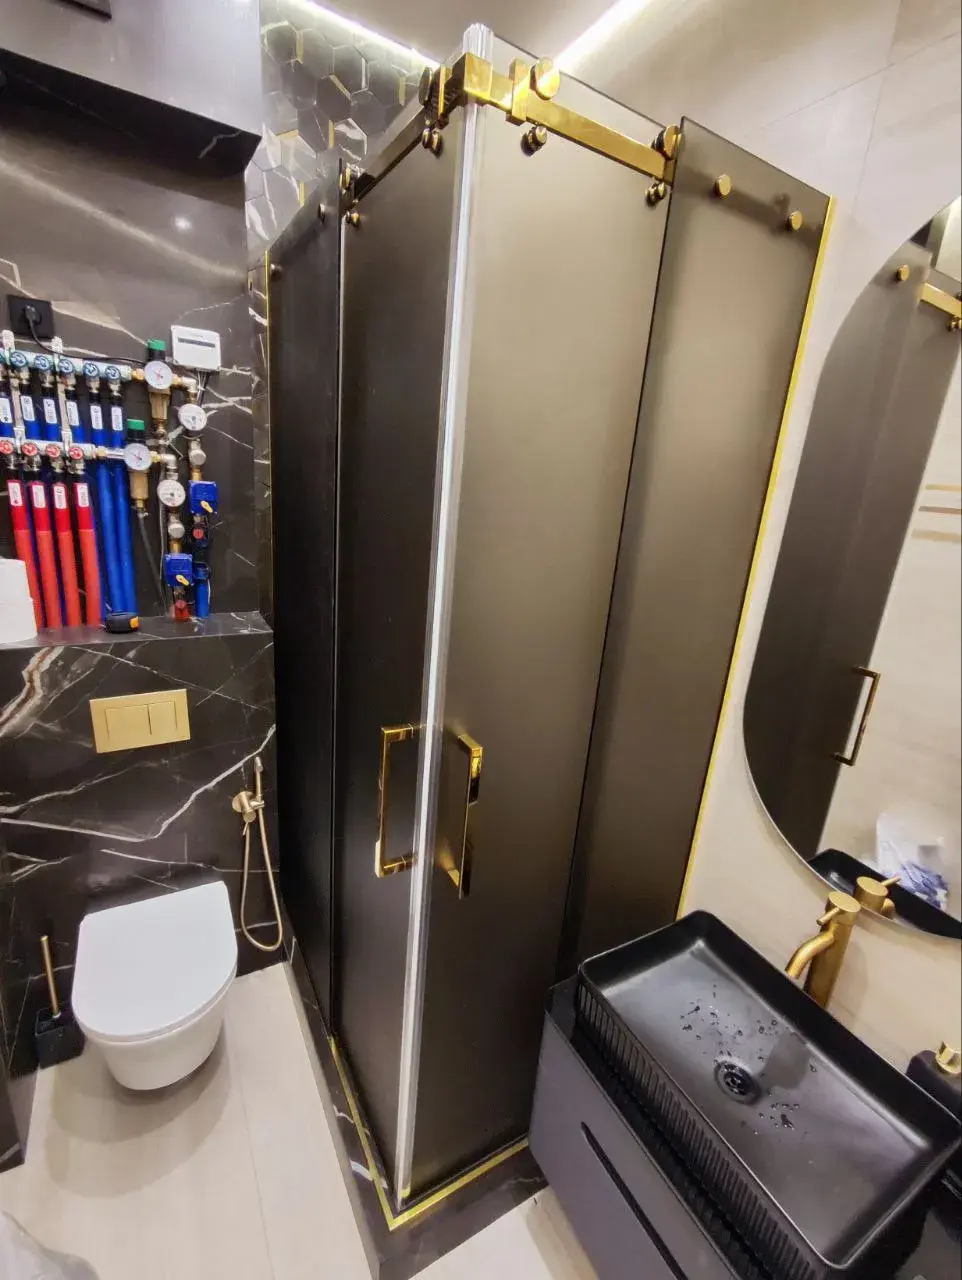
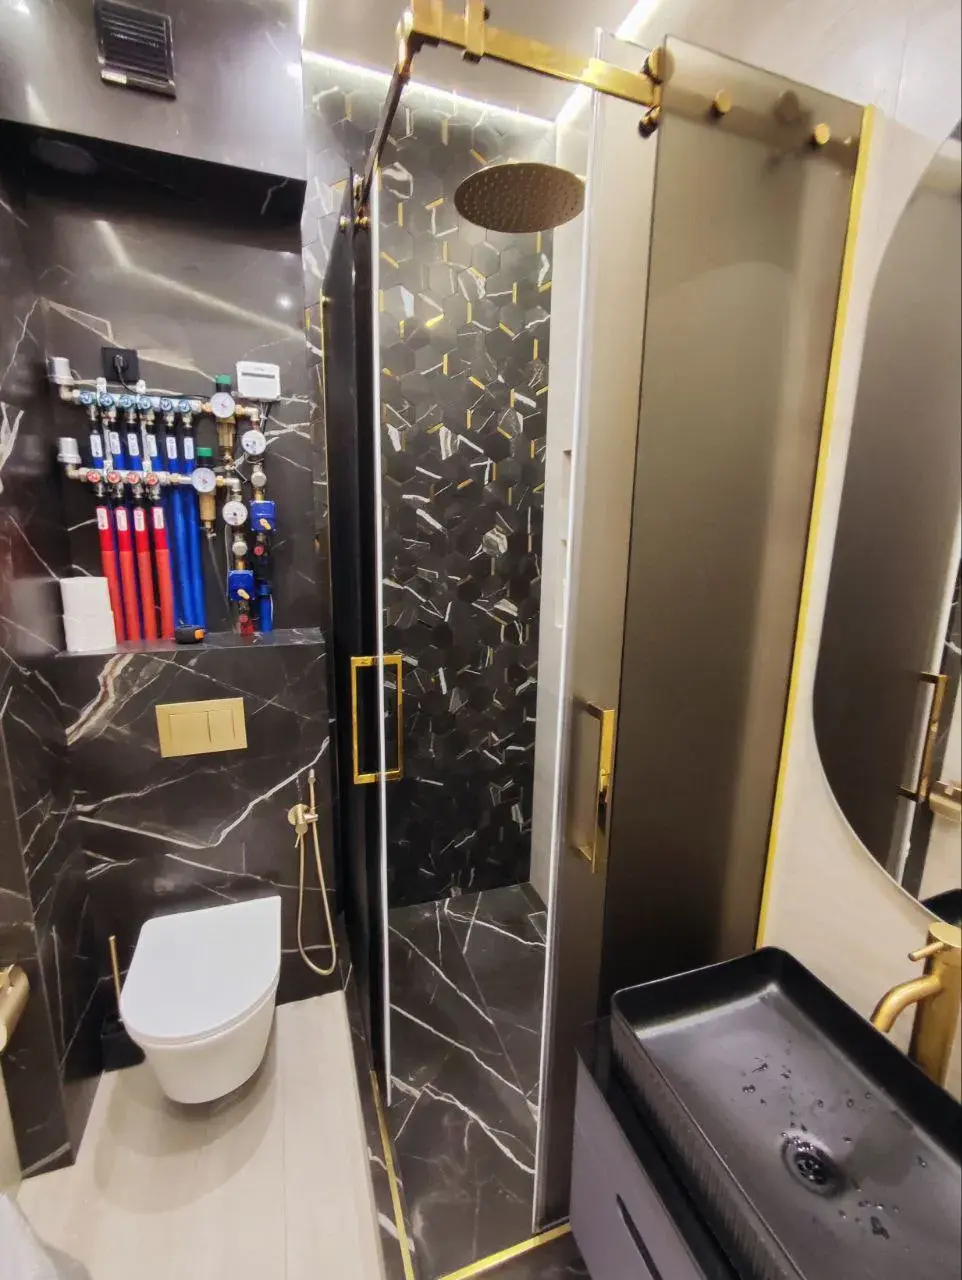
feat: added actual images for the portfolio. (Sat, Mar 29, 2025, 12:21:25 PM)

diff --git a/src/data/portfolioPage/portfolioData.js b/src/data/portfolioPage/portfolioData.js
@@ -1,127 +1,287 @@
 import portfolioPageImg_1_1 from "../../assets/portfolioPage/1-1.webp"
 import portfolioPageImg_1_2 from "../../assets/portfolioPage/1-2.webp"
 import portfolioPageImg_1_3 from "../../assets/portfolioPage/1-3.webp"
-import portfolioPageImg_1_4 from "../../assets/portfolioPage/1-4.webp"
 import portfolioPageImg_2_1 from "../../assets/portfolioPage/2-1.webp"
 import portfolioPageImg_2_2 from "../../assets/portfolioPage/2-2.webp"
-import portfolioPageImg_2_3 from "../../assets/portfolioPage/2-3.webp"
+import portfolioPageImg_3_1 from "../../assets/portfolioPage/3-1.webp"
+import portfolioPageImg_3_2 from "../../assets/portfolioPage/3-2.webp"
+import portfolioPageImg_3_3 from "../../assets/portfolioPage/3-3.webp"
+import portfolioPageImg_4_1 from "../../assets/portfolioPage/4-1.webp"
+import portfolioPageImg_4_2 from "../../assets/portfolioPage/4-2.webp"
+import portfolioPageImg_4_3 from "../../assets/portfolioPage/4-2.webp"
+import portfolioPageImg_5_1 from "../../assets/portfolioPage/5-1.webp"
+import portfolioPageImg_5_2 from "../../assets/portfolioPage/5-2.webp"
+import portfolioPageImg_6_1 from "../../assets/portfolioPage/6-1.webp"
+import portfolioPageImg_6_2 from "../../assets/portfolioPage/6-2.webp"
+import portfolioPageImg_6_3 from "../../assets/portfolioPage/6-3.webp"
+import portfolioPageImg_7_1 from "../../assets/portfolioPage/7-1.webp"
+import portfolioPageImg_8_1 from "../../assets/portfolioPage/8-1.webp"
+import portfolioPageImg_9_1 from "../../assets/portfolioPage/9-1.webp"
+import portfolioPageImg_9_2 from "../../assets/portfolioPage/9-2.webp"
+import portfolioPageImg_10_1 from "../../assets/portfolioPage/10-1.webp"
+import portfolioPageImg_11_1 from "../../assets/portfolioPage/11-1.webp"
+import portfolioPageImg_12_1 from "../../assets/portfolioPage/12-1.webp"
+import portfolioPageImg_13_1 from "../../assets/portfolioPage/13-1.webp"
+import portfolioPageImg_13_2 from "../../assets/portfolioPage/13-2.webp"
+import portfolioPageImg_14_1 from "../../assets/portfolioPage/14-1.webp"
+import portfolioPageImg_15_1 from "../../assets/portfolioPage/15-1.webp"
+import portfolioPageImg_16_1 from "../../assets/portfolioPage/16-1.webp"
+import portfolioPageImg_17_1 from "../../assets/portfolioPage/17-1.webp"
 
 const portfolioPageData = [
 	{
 		mainId: "portfolioPage_main_id_0",
 		carouselId: "portfolioPage_carousel_id_",
 		descriptionId: "portfolioPage_description_id_",
-		title: "Угловая душевая перегородка",
-		images: [
-			portfolioPageImg_1_1,
-			portfolioPageImg_1_2,
-			portfolioPageImg_1_3,
-			portfolioPageImg_1_4,
-		],
+		title: "Душевая угловая перегородка",
+		images: [portfolioPageImg_1_1, portfolioPageImg_1_2, portfolioPageImg_1_3],
 		descriptions: [
-			"Форма: Угловая душевая перегородка",
-			"Вид стекла: Стекло закаленное бронза сатин",
-			"Цвет фурнитуры: Золото",
-			"Тип открывания дверей: Откатная",
-			"Стоимость \u2248 1400р",
+			"Форма: Душевая угловая перегородка",
+			"Фурнитура: Золото глянец",
+			"Стекло: Бронза матовое , закаленное, 8мм",
+			"Тип открывания дверей: Раздвижной",
+			"Стоимость под ключ: 2633р",
+			"Размеры: 2100*1195*736",
 		],
 	},
 	{
 		mainId: "portfolioPage_main_id_1",
 		carouselId: "portfolioPage_carousel_id_1",
 		descriptionId: "portfolioPage_description_id_1",
-		title: "Распашная душевая перегородка",
-		images: [portfolioPageImg_2_1, portfolioPageImg_2_2, portfolioPageImg_2_3],
+		title: "Дущевая перегородка в нишу",
+		images: [portfolioPageImg_2_1, portfolioPageImg_2_2],
 		descriptions: [
-			"Форма: Распашная душевая перегородка",
-			"Вид стекла: Стекло закаленное  сатин",
-			"Цвет фурнитуры: Бронза",
-			"Тип открывания дверей: Распашная",
-			"Стоимость \u2248 1700р",
+			"Форма: Дущевая перегородка в нишу",
+			"Фурнитура: Черный мат.",
+			"Стекло: Прозрачное+матир., закаленное, 8мм",
+			"Тип открывания дверей: Распашной",
+			"Стоимость: 2033р",
+			"Размеры: 2000*1045",
 		],
 	},
 	{
 		mainId: "portfolioPage_main_id_2",
-		title: "Угловая душевая перегородка",
+		title: "Душевая угловая перегородка",
 		carouselId: "portfolioPage_carousel_id_2",
 		descriptionId: "portfolioPage_description_id_2",
-		images: [portfolioPageImg_2_1, portfolioPageImg_2_2, portfolioPageImg_2_3],
+		images: [portfolioPageImg_3_1, portfolioPageImg_3_2, portfolioPageImg_3_3],
 		descriptions: [
-			"Форма: Распашная душевая перегородка",
-			"Вид стекла: Стекло закаленное  сатин",
-			"Цвет фурнитуры: Бронза",
-			"Тип открывания дверей: Распашная",
-			"Стоимость \u2248 1700р",
+			"Форма: Душевая угловая перегородка",
+			"Фурнитура: Черный мат.",
+			"Стекло: Осветлен. матовое , закаленное, 8мм",
+			"Тип открывания дверей: Раздвижной",
+			"Стоимость: 4432р",
+			"Размеры: 2100*1000*1000",
 		],
 	},
 	{
 		mainId: "portfolioPage_main_id_3",
 		carouselId: "portfolioPage_carousel_id_3",
 		descriptionId: "portfolioPage_description_id_3",
-		title: "Угловая душевая перегородка",
-		images: [portfolioPageImg_2_1, portfolioPageImg_2_2, portfolioPageImg_2_3],
+		title: "Дущевая перегородка в нишу",
+		images: [portfolioPageImg_4_1, portfolioPageImg_4_2, portfolioPageImg_4_3],
 		descriptions: [
-			"Форма: Распашная душевая перегородка",
-			"Вид стекла: Стекло закаленное  сатин",
-			"Цвет фурнитуры: Бронза",
-			"Тип открывания дверей: Распашная",
-			"Стоимость \u2248 1700р",
+			"Форма: Дущевая перегородка в нишу",
+			"Фурнитура: Черный мат.",
+			"Стекло: Осветлен. матовое., закаленное, 8мм",
+			"Тип открывания дверей: Раздвижной",
+			"Стоимость: 3809р",
+			"Размеры: 2300*2300",
 		],
 	},
 	{
 		mainId: "portfolioPage_main_id_4",
 		carouselId: "portfolioPage_carousel_id_4",
 		descriptionId: "portfolioPage_description_id_4",
-		title: "Угловая душевая перегородка",
-		images: [portfolioPageImg_2_1, portfolioPageImg_2_2, portfolioPageImg_2_3],
+		title: "Дущевая перегородка в нишу",
+		images: [portfolioPageImg_5_1, portfolioPageImg_5_2],
 		descriptions: [
-			"Форма: Распашная душевая перегородка",
-			"Вид стекла: Стекло закаленное  сатин",
-			"Цвет фурнитуры: Бронза",
-			"Тип открывания дверей: Распашная",
-			"Стоимость \u2248 1700р",
+			"Форма: Дущевая перегородка в нишу",
+			"Фурнитура: Хром мат.",
+			"Стекло: Матовое закаленное, 8мм",
+			"Тип открывания дверей: Распашной",
+			"Стоимость: 1970р",
+			"Размеры: 2100*1162",
 		],
 	},
 	{
 		mainId: "portfolioPage_main_id_5",
 		carouselId: "portfolioPage_carousel_id_5",
 		descriptionId: "portfolioPage_description_id_5",
-		title: "Угловая душевая перегородка",
-		images: [portfolioPageImg_2_1, portfolioPageImg_2_2, portfolioPageImg_2_3],
+		title: "Статичная перегородка в ванную",
+		images: [portfolioPageImg_6_1, portfolioPageImg_6_2, portfolioPageImg_6_3],
 		descriptions: [
-			"Форма: Распашная душевая перегородка",
-			"Вид стекла: Стекло закаленное  сатин",
-			"Цвет фурнитуры: Бронза",
-			"Тип открывания дверей: Распашная",
-			"Стоимость \u2248 1700р",
+			"Форма: Статичная перегородка в ванную",
+			"Фурнитура: Черный мат.",
+			"Стекло: Рифленое триплекс, закаленное, 8мм",
+			"Тип открывания дверей: -",
+			"Стоимость: 4432р",
+			"Размеры: 1871*785",
 		],
 	},
 	{
 		mainId: "portfolioPage_main_id_6",
 		carouselId: "portfolioPage_carousel_id_6",
 		descriptionId: "portfolioPage_description_id_6",
-		title: "Угловая душевая перегородка",
-		images: [portfolioPageImg_2_1, portfolioPageImg_2_2, portfolioPageImg_2_3],
+		title: "Душевая перегородка в нишу",
+		images: [portfolioPageImg_7_1],
 		descriptions: [
-			"Форма: Распашная душевая перегородка",
-			"Вид стекла: Стекло закаленное  сатин",
-			"Цвет фурнитуры: Бронза",
-			"Тип открывания дверей: Распашная",
-			"Стоимость \u2248 1700р",
+			"Форма: Душевая перегородка в нишу",
+			"Фурнитура: Черный мат.",
+			"Стекло: Тонированное закаленное, 8мм",
+			"Тип открывания дверей: Распашной",
+			"Стоимость: 2637р",
+			"Размеры: 2100*1100",
 		],
 	},
 	{
 		mainId: "portfolioPage_main_id_7",
 		carouselId: "portfolioPage_carousel_id_7",
 		descriptionId: "portfolioPage_description_id_7",
-		title: "Угловая душевая перегородка",
-		images: [portfolioPageImg_2_1, portfolioPageImg_2_2, portfolioPageImg_2_3],
+		title: "Душевая перегородка в нишу",
+		images: [portfolioPageImg_8_1],
 		descriptions: [
-			"Форма: Распашная душевая перегородка",
-			"Вид стекла: Стекло закаленное  сатин",
-			"Цвет фурнитуры: Бронза",
-			"Тип открывания дверей: Распашная",
-			"Стоимость \u2248 1700р",
+			"Форма: Душевая перегородка в нишу",
+			"Фурнитура: Черный мат.",
+			"Стекло: Прозрачное закаленное, 8мм",
+			"Тип открывания дверей: Распашной",
+			"Стоимость: 2124р",
+			"Размеры: 2100*1100",
+		],
+	},
+	{
+		mainId: "portfolioPage_main_id_8",
+		carouselId: "portfolioPage_carousel_id_8",
+		descriptionId: "portfolioPage_description_id_8",
+		title: "Душевая угловая перегородка",
+		images: [portfolioPageImg_9_1, portfolioPageImg_9_2],
+		descriptions: [
+			"Форма: Душевая угловая перегородка",
+			"Фурнитура: Черный мат.",
+			"Стекло: Прозрачное закаленное, 8мм",
+			"Тип открывания дверей: Распашной",
+			"Стоимость: 3993р",
+			"Размеры: 2200*903*900",
+		],
+	},
+	{
+		mainId: "portfolioPage_main_id_9",
+		carouselId: "portfolioPage_carousel_id_9",
+		descriptionId: "portfolioPage_description_id_9",
+		title: "Душевая угловая перегородка",
+		images: [portfolioPageImg_10_1],
+		descriptions: [
+			"Форма: Душевая угловая перегородка",
+			"Фурнитура: Черный мат.",
+			"Стекло: Прозрачное закаленное, 8мм",
+			"Тип открывания дверей: Распашной",
+			"Стоимость: 3846р",
+			"Размеры: 2000*613*1066",
+		],
+	},
+	{
+		mainId: "portfolioPage_main_id_10",
+		carouselId: "portfolioPage_carousel_id_10",
+		descriptionId: "portfolioPage_description_id_10",
+		title: "Душевая перегородка в нишу",
+		images: [portfolioPageImg_11_1],
+		descriptions: [
+			"Форма: Душевая перегородка в нишу",
+			"Фурнитура: Золото  глянец",
+			"Стекло: Прозрачное закаленное, 8мм",
+			"Тип открывания дверей: Распашной",
+			"Стоимость: 2491р",
+			"Размеры: 2100*1502",
+		],
+	},
+	{
+		mainId: "portfolioPage_main_id_11",
+		carouselId: "portfolioPage_carousel_id_11",
+		descriptionId: "portfolioPage_description_id_11",
+		title: "Душевая перегородка в нишу",
+		images: [portfolioPageImg_12_1],
+		descriptions: [
+			"Форма: Душевая перегородка в нишу",
+			"Фурнитура: Черный  мат",
+			"Стекло: Прозрачное тонир. закаленное, 8мм",
+			"Тип открывания дверей: Распашной",
+			"Стоимость: 2674р",
+			"Размеры: 2100*1200",
+		],
+	},
+	{
+		mainId: "portfolioPage_main_id_12",
+		carouselId: "portfolioPage_carousel_id_12",
+		descriptionId: "portfolioPage_description_id_12",
+		title: "Душевая перегородка в нишу",
+		images: [portfolioPageImg_13_1, portfolioPageImg_13_2],
+		descriptions: [
+			"Форма: Душевая перегородка в нишу",
+			"Фурнитура: Черный  мат",
+			"Стекло: Прозрачное закаленное, 8мм",
+			"Тип открывания дверей: Распашной",
+			"Стоимость: 1531р",
+			"Размеры: 2120*599",
+		],
+	},
+	{
+		mainId: "portfolioPage_main_id_13",
+		carouselId: "portfolioPage_carousel_id_13",
+		descriptionId: "portfolioPage_description_id_13",
+		title: "Душевая перегородка в нишу",
+		images: [portfolioPageImg_14_1],
+		descriptions: [
+			"Форма: Душевая перегородка в нишу",
+			"Фурнитура: Хром мат.",
+			"Стекло: Матовое закаленное, 8мм",
+			"Тип открывания дверей: Распашной",
+			"Стоимость: 1970р",
+			"Размеры: 2100*1162",
+		],
+	},
+	{
+		mainId: "portfolioPage_main_id_14",
+		carouselId: "portfolioPage_carousel_id_14",
+		descriptionId: "portfolioPage_description_id_14",
+		title: "Душевая перегородка в нишу",
+		images: [portfolioPageImg_15_1],
+		descriptions: [
+			"Форма: Душевая перегородка в нишу",
+			"Фурнитура: Черный мат.",
+			"Стекло: Прозрачное закаленное, 8мм",
+			"Тип открывания дверей: Раздвижной",
+			"Стоимость: 2190р",
+			"Размеры: 2100*1499",
+		],
+	},
+	{
+		mainId: "portfolioPage_main_id_15",
+		carouselId: "portfolioPage_carousel_id_15",
+		descriptionId: "portfolioPage_description_id_15",
+		title: "Душевая перегородка в нишу",
+		images: [portfolioPageImg_16_1],
+		descriptions: [
+			"Форма: Душевая перегородка в нишу",
+			"Фурнитура: Черный мат.",
+			"Стекло: Прозрачное закаленное, 8мм",
+			"Тип открывания дверей: Раздвижной",
+			"Стоимость: 1871р",
+			"Размеры: 2000*1330",
+		],
+	},
+	{
+		mainId: "portfolioPage_main_id_16",
+		carouselId: "portfolioPage_carousel_id_16",
+		descriptionId: "portfolioPage_description_id_16",
+		title: "Душевая угловая перегородка",
+		images: [portfolioPageImg_17_1],
+		descriptions: [
+			"Форма: Душевая угловая перегородка",
+			"Фурнитура: Хром глянец",
+			"Стекло: Прозрачное закаленное, 8мм",
+			"Тип открывания дверей: Распашной",
+			"Стоимость: 2633р",
+			"Размеры: 2000*913*585",
 		],
 	},
 ]

diff --git a/src/components/PortfolioPage/PortfolioItem.jsx b/src/components/PortfolioPage/PortfolioItem.jsx
@@ -24,7 +24,7 @@ const PortfolioItem = memo(({ data }) => {
 				}}
 			>
 				<h2 className={styles["portfolio__item-title"]}>{title}</h2>
-				<Carousel options={{ Thumbs: { type: "classic" } }}>
+				<Carousel options={{ Thumbs: { type: "classic", minCount: 1 } }}>
 					{images.map((image, id) => {
 						return (
 							<div
